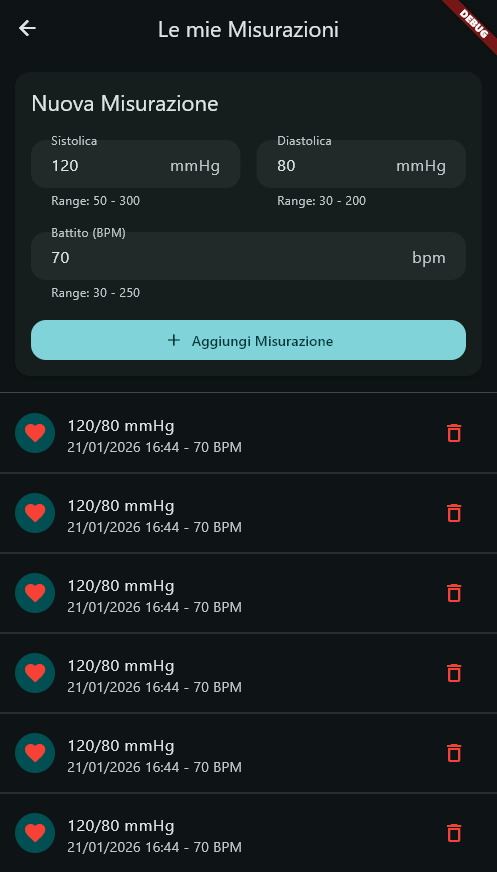
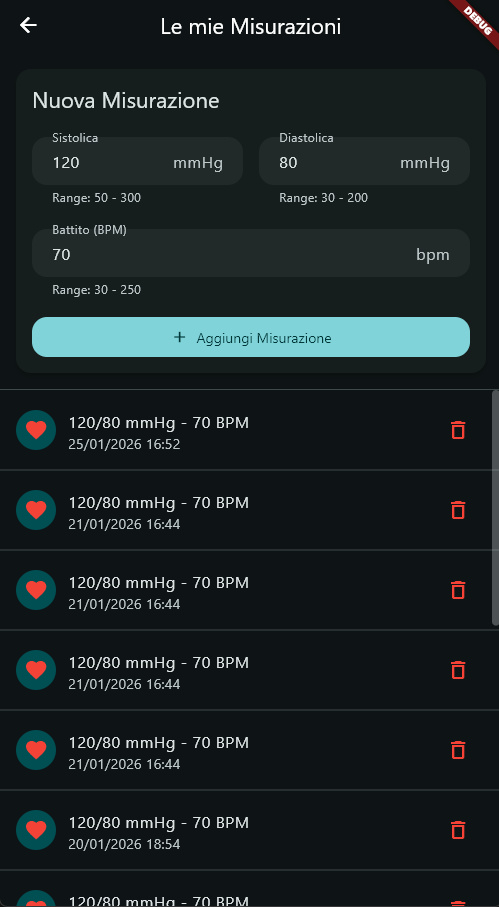
bug: fix problema con caricamento dati windows + formattazione

diff --git a/lib/widgets/measurements/measurements_list.dart b/lib/widgets/measurements/measurements_list.dart
@@ -1,7 +1,6 @@
 import 'package:flutter/material.dart';
 import 'package:flutter_riverpod/flutter_riverpod.dart';
 import 'package:intl/intl.dart';
-import '../../data/models/measurement.dart';
 import '../../providers/providers.dart';
 
 class MeasurementsList extends ConsumerWidget {
@@ -49,8 +48,8 @@ class MeasurementsList extends ConsumerWidget {
               leading: const CircleAvatar(
                 child: Icon(Icons.favorite, color: Colors.red),
               ),
-              title: Text('${m.systolic}/${m.diastolic} mmHg'),
-              subtitle: Text('$dateStr - ${m.pulse} BPM'),
+              title: Text('${m.systolic}/${m.diastolic} mmHg - ${m.pulse} BPM'),
+              subtitle: Text('$dateStr'),
               trailing: IconButton(
                 icon: const Icon(Icons.delete_outline, color: Colors.red),
                 onPressed: () => _confirmDelete(context, ref, m.id!),

diff --git a/lib/providers/ai_provider.dart b/lib/providers/ai_provider.dart
@@ -5,12 +5,12 @@ import '../data/models/diagnosis_input.dart';
 
 import '../app_constants.dart';
 
-// 8. Provider per il servizio AI
+// provider per il servizio AI
 final aiServiceProvider = Provider<AIService>((ref) {
   return AIService();
 });
 
-// 9. Controller per la diagnosi (Logic + State)
+// controller per la diagnosi  
 class DiagnosisController extends AsyncNotifier<DiagnosisResult?> {
   @override
   DiagnosisResult? build() {
@@ -22,7 +22,7 @@ class DiagnosisController extends AsyncNotifier<DiagnosisResult?> {
     try {
       final aiService = ref.read(aiServiceProvider);
       
-      // Chiamata con Timeout gestita qui
+      // chiamata con timeout 
       final result = await aiService.predictDisease(
         age: input.age,
         trestbps: input.trestbps,

diff --git a/lib/data/database/database_service.dart b/lib/data/database/database_service.dart
@@ -1,4 +1,5 @@
 import 'package:sqflite/sqflite.dart';
+import 'package:sqflite_common_ffi/sqflite_ffi.dart';
 import 'package:path/path.dart';
 import 'package:path_provider/path_provider.dart';
 import 'package:flutter/foundation.dart';
@@ -19,6 +20,10 @@ class DatabaseService {
     String path;
     
     if (defaultTargetPlatform == TargetPlatform.windows || defaultTargetPlatform == TargetPlatform.linux) {
+      // Inizializzazione per Desktop
+      sqfliteFfiInit();
+      databaseFactory = databaseFactoryFfi;
+
       // getApplicationSupportDirectory per Windows e Linux
       final dir = await getApplicationSupportDirectory();
       path = join(dir.path, 'cardioguard.db');

diff --git a/lib/measurements_screen.dart b/lib/measurements_screen.dart
@@ -29,8 +29,8 @@ class MeasurementsScreen extends StatelessWidget {
               ],
             );
           } else {
-            // Layout orizzontale
-            // Se lo schermo è molto grande (>1000), diamo più spazio al form (40%), altrimenti 350px
+            // layout orizzontale
+            // se lo schermo è molto grande (>1000), diamo più spazio al form (40%), altrimenti 350px
             final formWidth = constraints.maxWidth > AppConstants.bigScreenBreakpoint ? constraints.maxWidth * 0.4 : 350.0;
             
             return Row(

diff --git a/lib/providers/air_quality_provider.dart b/lib/providers/air_quality_provider.dart
@@ -32,7 +32,7 @@ final airQualityProvider = FutureProvider<AirQuality>((ref) async {
     return await AirQualityService.fetchAirQuality(pos.latitude, pos.longitude);
   }
 
-  // Applichiamo il timeout a TUTTO il processo (GPS + API)
+  // applichiamo il timeout a GPS e API insieme
   return await _getAirQuality().timeout(
     const Duration(seconds: 10),
     onTimeout: () {

diff --git a/lib/services/ai_service.dart b/lib/services/ai_service.dart
@@ -1,8 +1,6 @@
 import 'dart:convert';
-import 'package:flutter/foundation.dart';
 import 'package:http/http.dart' as http;
 import '../data/models/diagnosis_result.dart';
-
 import '../app_constants.dart';
 
 class AIService {

diff --git a/lib/services/air_quality_service.dart b/lib/services/air_quality_service.dart
@@ -1,6 +1,5 @@
 import 'dart:convert';
 import 'package:http/http.dart' as http;
-import 'package:flutter/foundation.dart';
 import '../data/models/air_quality.dart';
 import '../app_constants.dart';
 
